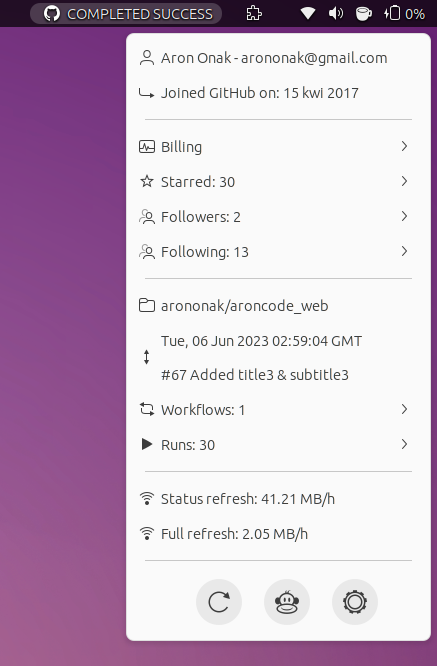
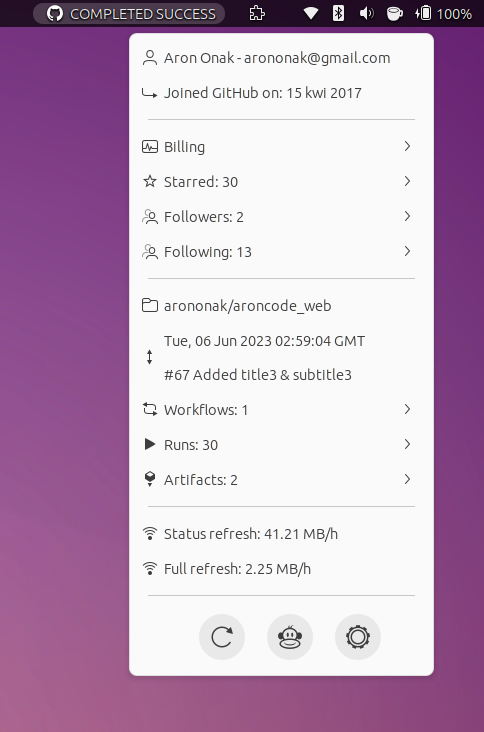
Added artifacts sections without download options

Changed region(s): [[0.0, 0.0, 1.0, 0.961]]

diff --git a/github-actions@arononak.github.io/extension.js b/github-actions@arononak.github.io/extension.js
@@ -56,11 +56,12 @@ async function coldRefresh(settings, indicator) {
         const followers = await dataRepository.fetchUserFollowers();
         const following = await dataRepository.fetchUserFollowing();
         const workflows = await dataRepository.fetchWorkflows(owner, repo);
+        const artifacts = await dataRepository.fetchArtifacts(owner, repo);
         const minutes = await dataRepository.fetchUserBillingActionsMinutes(login);
         const packages = await dataRepository.fetchUserBillingPackages(login);
         const sharedStorage = await dataRepository.fetchUserBillingSharedStorage(login);
 
-        const sizeInBytes = user['_size_'] + starredList['_size_'] + followers['_size_'] + following['_size_'] + workflows['_size_'] + minutes['_size_'] + packages['_size_'] + sharedStorage['_size_'];
+        const sizeInBytes = user['_size_'] + starredList['_size_'] + followers['_size_'] + following['_size_'] + workflows['_size_'] + minutes['_size_'] + packages['_size_'] + sharedStorage['_size_'] + artifacts['_size_'];
         utils.prefsUpdateColdPackageSize(settings, sizeInBytes);
 
         let userEmail;
@@ -93,6 +94,7 @@ async function coldRefresh(settings, indicator) {
         indicator.setUserFollowers(followers);
         indicator.setUserFollowing(following);
         indicator.setWorkflows(workflows['workflows']);
+        indicator.setArtifacts(artifacts['artifacts']);
         indicator.userUrl = userUrl;
         indicator.userItem.label.text = (userName == null || userEmail == null) ? 'Not logged' : userName + ' - ' + userEmail;
         indicator.joinedItem.label.text = 'Joined GitHub on: ' + createdAt.toLocaleFormat('%d %b %Y');
@@ -286,6 +288,19 @@ const Indicator = GObject.registerClass(
             this.runsMenuItem.insert_child_at_index(this.runsLabel, 1);
             this.menu.addMenuItem(this.runsMenuItem);
 
+            /// Artifacts
+            this.artifactsMenuBox = new St.BoxLayout({ vertical: true, style_class: 'menu-box' });
+            this.artifactsScrollView = new St.ScrollView({ y_align: Clutter.ActorAlign.START, y_expand: true, overlay_scrollbars: true });
+            this.artifactsScrollView.add_actor(this.artifactsMenuBox);
+            this.artifactsMenuItem = new PopupMenu.PopupSubMenuMenuItem('');
+            this.artifactsMenuItem.menu.box.add_actor(this.artifactsScrollView);
+            this.artifactsIconContainer = new St.Widget({ style_class: 'popup-menu-icon-container' });
+            this.artifactsIconContainer.add_child(new St.Icon({ icon_name: 'insert-object-symbolic', style_class: 'popup-menu-icon' }));
+            this.artifactsMenuItem.insert_child_at_index(this.artifactsIconContainer, 0);
+            this.artifactsLabel = new St.Label({ text: loadingText });
+            this.artifactsMenuItem.insert_child_at_index(this.artifactsLabel, 1);
+            this.menu.addMenuItem(this.artifactsMenuItem);
+
             this.menu.addMenuItem(new PopupMenu.PopupSeparatorMenuItem());
 
             /// Package Sizes
@@ -336,6 +351,20 @@ const Indicator = GObject.registerClass(
                 const item = new PopupMenu.PopupImageMenuItem(element['name'], 'mail-send-receive-symbolic');
                 item.connect('activate', () => utils.openUrl(element['html_url']));
                 this.workflowsMenuBox.add_actor(item);
+            });
+        }
+
+        setArtifacts(artifacts) {
+            const items = artifacts.filter(element => element['expired']);
+
+            this.artifactsMenuBox.remove_all_children();
+            this.artifactsLabel.text = 'Artifacts: ' + items.length;
+
+            items.forEach((element) => {
+                const date = (new Date(element['created_at'])).toLocaleFormat('%d %b %Y');
+                const name = element['name'] +  ' - ' + date + ' - (' + utils.bytesToString(element['size_in_bytes']) + ')';
+                const item = new PopupMenu.PopupImageMenuItem(name, 'insert-object-symbolic');
+                this.artifactsMenuBox.add_actor(item);
             });
         }
 
